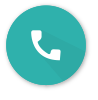
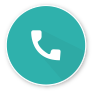
new button assets

Changed region(s): [[0.0612, 0.03, 0.8878, 0.87]]

diff --git a/app/css/app.css b/app/css/app.css
@@ -10,6 +10,7 @@ html, body {
 #bigPhoto {
   z-index: 50;
 }
+
 header {
   height: 110px;
   position: fixed;
@@ -68,7 +69,7 @@ header {
 h1 {
   font-family: "Source Sans Pro", sans-serif;
   color: white;
-  font-size: 28px;
+  font-size: 30px;
   position: absolute;
   top: 35px;
   /*left: 105px;*/
@@ -142,10 +143,10 @@ h1 {
   top: 0;
   left: 0;
   opacity: 0;
-  -webkit-transition: all 400ms ease;
-  -moz-transition: all 400ms ease;
-  -o-transition: all 400ms ease;
-  transition: all 400ms ease;
+  -webkit-transition: all 300ms ease-out;
+  -moz-transition: all 300ms ease-out;
+  -o-transition: all 300ms ease-out;
+  transition: all 300ms ease-out;
 /*
   bottom: 125px;
   right: 35px;*/
@@ -155,10 +156,10 @@ h1 {
   top: 0;
   left: 0;
   opacity: 0;
-  -webkit-transition: all 400ms ease;
-  -moz-transition: all 400ms ease;
-  -o-transition: all 400ms ease;
-  transition: all 400ms ease;
+  -webkit-transition: all 300ms ease;
+  -moz-transition: all 300ms ease;
+  -o-transition: all 300ms ease;
+  transition: all 300ms ease;
 /*  
   bottom: 80px;
   right: 100px;*/
@@ -240,20 +241,20 @@ li:active {
 
 #addButton {
   position: fixed;
-  top: 45px;
-  right: 30px;
+  top: 42px;
+  right: 28px;
   z-index: 5;
 }
 
 #editButton {
   position: fixed;
   top: 14px;
-  right: 30px;
+  right: 28px;
   z-index: 5;
 }
 
 #addButton img, #editButton img {
-    height: 55px;
+    height: 60px;
 }
 
 #backButton {
